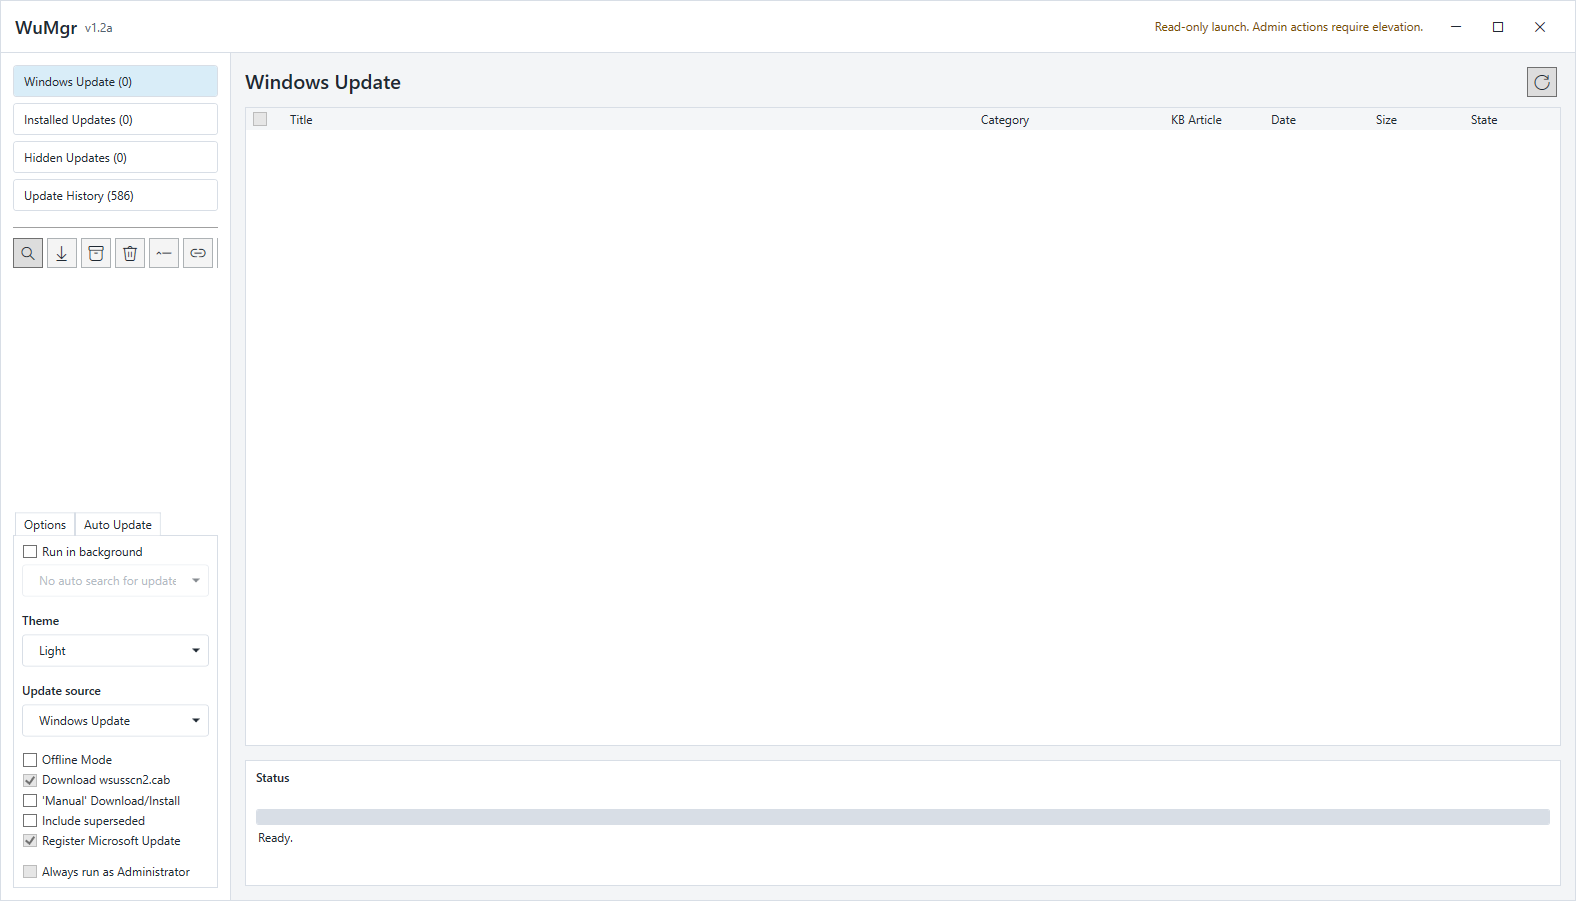
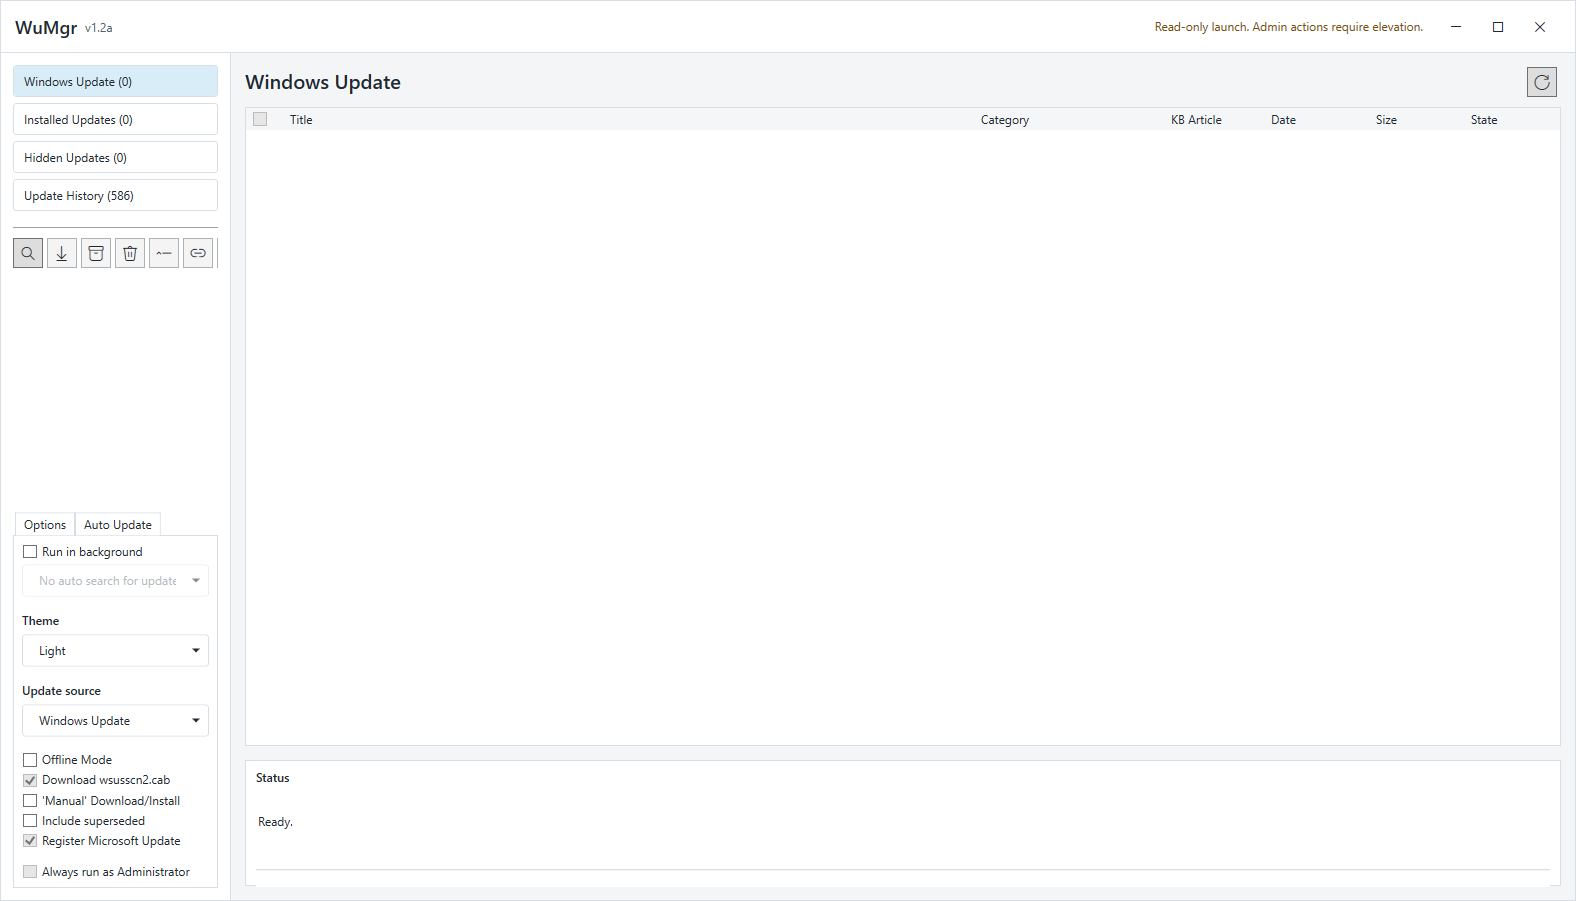
Update WPF preview documentation (#50)

Changed region(s): [[0.1555, 0.8701, 0.9949, 0.9323]]

diff --git a/README.md b/README.md
@@ -25,7 +25,9 @@ release.
 ## Screenshots
 
 The screenshots below show the WPF shell on current `master`. The packaged
-`v1.2.1` release still uses the older WinForms interface.
+`v1.2.1` release still uses the older WinForms interface. These captures show
+the idle state; the WPF progress strip is only shown while an update operation
+is active.
 
 | Light theme | Dark theme |
 | --- | --- |
@@ -66,6 +68,9 @@ not include all unreleased read-only launch changes yet.
   offline scan mode, manual download mode, and startup behavior.
 - Run current `master` without elevation for read-only inspection, then restart
   elevated only when using admin-only update or policy actions.
+- Use the WPF preview with compact icon actions, a resizable status/log pane,
+  and progress that stays hidden until search, download, install, or hide work
+  is running.
 - Use `Translation.ini` next to `wumgr.exe` for portable translations.
 - Force a UI language with `Lang=` in `wumgr.ini` when Windows regional settings
   should not control the app language.
@@ -130,7 +135,7 @@ WuMgr was created by
 This fork preserves the original GPLv3 licensing and attribution while
 continuing maintenance in `Darkaxt/wumgr`.
 
-To support the original author, use
+To support the original author, this maintained README keeps the Patreon link:
 [DavidXanatos on Patreon](https://www.patreon.com/DavidXanatos).
 
 Legacy WinForms icons are provided by [Icons8](https://icons8.com/).

diff --git a/docs/USAGE.md b/docs/USAGE.md
@@ -23,6 +23,10 @@ supports the primary update lists, source selection, search, selected-update
 actions, copy links, cancellation, progress/status reporting, tray behavior,
 startup search, and the migrated Auto Update controls.
 
+In the idle state, the WPF status pane shows only the current status/log text.
+The progress strip appears only while WuMgr is actively searching, downloading,
+installing, uninstalling, hiding, unhiding, or canceling an operation.
+
 The legacy WinForms UI remains available with `-winforms`. Use it as a fallback
 when testing a WPF regression or when comparing behavior against the original
 interface.
@@ -114,6 +118,8 @@ under the user's Downloads directory for writable state.
 
 - Use current `master` with `-winforms` if a WPF regression blocks an update
   workflow.
+- If progress looks stuck, include the visible status text and the latest log
+  lines; idle current `master` builds intentionally hide the progress strip.
 - Use `-console` when collecting logs for a bug report.
 - Include the Windows version, whether WuMgr was elevated, selected update
   titles, KB numbers when present, and the exact error text from the status log.

diff --git a/CHANGELOG.md b/CHANGELOG.md
@@ -45,6 +45,9 @@ This project adheres to [Semantic Versioning](http://semver.org/).
   non-actionable support reports are not left in the active repro bucket.
 - Added upstream pull request triage notes for the stale PRs reviewed from the
   parent project.
+- Refreshed README/user-guide notes and screenshots so the WPF preview reflects
+  the current idle-progress behavior and Patreon-only original-author support
+  link.
 
 ### Fixed
 - Normal non-admin launch no longer opens a UAC prompt unless Skip UAC was

diff --git a/docs/MODERNIZATION.md b/docs/MODERNIZATION.md
@@ -21,7 +21,8 @@ slow WUA startup does not make launch appear stalled.
 
 Recent WPF polish restored the original action icons, moved the refresh action
 into the toolbar, hides progress when no operation is active, and reports
-successful installs that require a reboot.
+successful installs that require a reboot. The README screenshots are captured
+from that idle state, so no progress strip is visible until an operation starts.
 
 The existing WinForms UI remains available with `-winforms` for fallback
 testing. The executable name, portable zip format, and .NET Framework target are